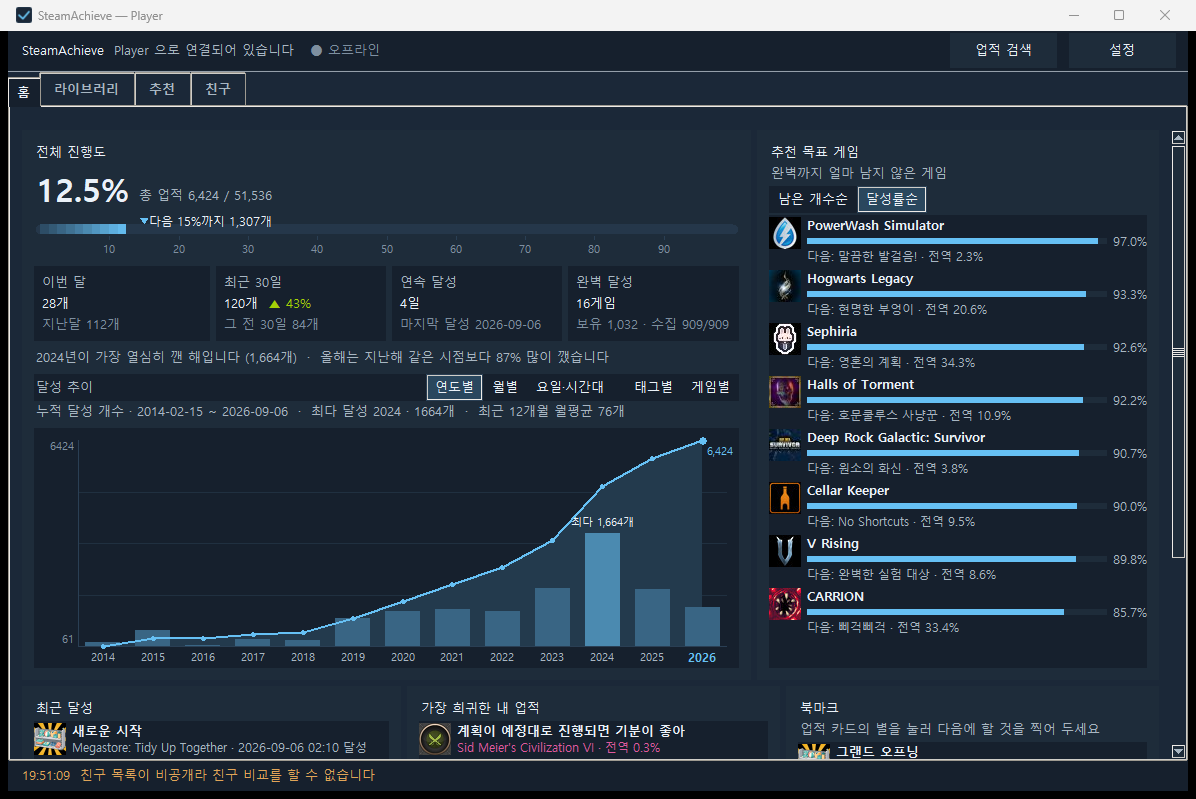
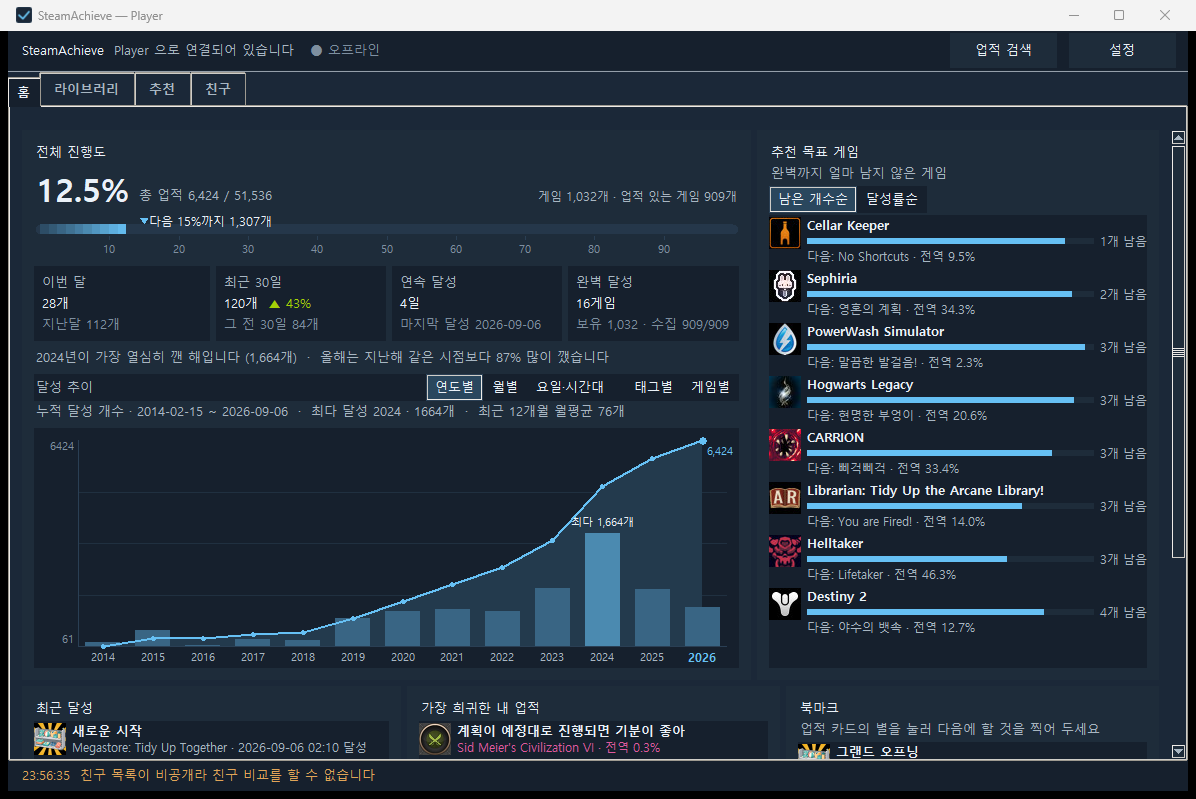
docs: v0.5.6 배포 문서

diff --git a/CHANGELOG.md b/CHANGELOG.md
@@ -2,6 +2,47 @@
 
 형식은 [Keep a Changelog](https://keepachangelog.com/ko/1.1.0/) 를 따르고, 버전은 [SemVer](https://semver.org/lang/ko/) 입니다.
 
+## [미공개]
+
+## [0.5.6] - 2026-09-07 — 조작·설정 정리
+
+### 추가
+- **첫 실행 설정 창에서 언어를 고를 수 있습니다.** 고르는 즉시 그 창의 글자가 바뀌어 무엇을 골랐는지 눈으로 확인됩니다. 설정을 마치고 [시작하기]를 누르면 앱이 그 언어로 다시 뜹니다(첫 실행이라 잃을 것이 없습니다).
+- 첫 실행 설정 창의 1단계가 **키가 왜 필요한지**를 밝힙니다 — 스팀은 로그인하지 않은 요청에 보유 게임 목록을 주지 않아 키 없이 시작할 방법이 없습니다. 키는 이 PC 에만 저장되고 스팀 비밀번호와는 무관하다는 것도 같은 자리에 적었습니다.
+- **친구에게 별명을 붙일 수 있습니다.** 스팀 닉네임이 아무 의미 없는 문자열이면 목록에서 누가 누군지 알아보기 어렵습니다 — 친구를 고르고 [별명]을 누르면 목록이 **"별명 (스팀 닉네임)"** 으로 바뀌고, 비교 제목과 이름 정렬도 그 이름을 씁니다. 닉네임을 함께 남기는 이유는 스팀에서 그 사람을 찾을 때 필요하기 때문입니다. 수동으로 친구를 추가할 때도 별명을 함께 넣을 수 있고(선택), 프로필 친구에게도 붙일 수 있습니다(붙여도 "수동 추가"가 되지 않습니다). 비우고 저장하면 지워집니다.
+- **스팀에서 보기 버튼.** 라이브러리에서 게임을 골라 업적을 보다가 그대로 그 게임을 보러 갈 수 있습니다 — 스팀 클라이언트가 앞으로 나오고, 보유 게임이면 **라이브러리 게임 페이지**가, 내가 안 가진 게임이면 **상점 페이지**가 열립니다. **게임을 실행하거나 설치하지 않습니다** — 업적을 훑다가 누른 클릭 한 번이 수십 GB 다운로드가 되면 안 되기 때문입니다.
+- **마우스 뒤로가기 버튼.** 마우스 4번 버튼(또는 Alt+←)으로 앞 화면으로 한 칸 되돌아갑니다 — 탭 사이, 라이브러리 홈 ↔ 게임 화면, 친구 선택까지 브라우저와 같은 방식입니다. 다른 프로그램이 앞에 있을 때는 반응하지 않습니다.
+- **친구가 가진 게임을 더블클릭하면 열립니다.** 내가 없는 게임이어도 라이브러리에서 고른 것과 똑같이 업적 목록이 뜹니다(내 달성 기록이 없으므로 전부 "미확인"입니다). 남의 게임이라 내 수집 통계에는 넣지 않습니다.
+- 친구 비교 요약 줄에서 **"미확인"과 "비공개"를 따로 셉니다.** 둘을 합쳐 두면 상대가 잠가 놓아 영영 못 보는 것을 "아직 안 받았다"로 읽어 새로 고침을 눌러 가며 기다리게 됩니다.
+- **표 머리글을 누르면 정렬됩니다.** 라이브러리 탭(게임 목록 · 목록 보기 · 업적 목록)과 친구 탭(친구 목록 · 비교표) 다섯 곳 모두입니다. 다른 열을 누르면 그 열의 자연스러운 방향으로(이름은 가나다순, 수치는 큰 것부터), 같은 열을 다시 누르면 뒤집힙니다. 정렬 중인 열에만 ▲/▼ 가 붙습니다.
+- 머리글로 정렬하면 **옆의 정렬 기준 컨트롤도 함께 바뀝니다** — 콤보가 "이름순"이라고 적어 두고 플레이타임순으로 그리는 일이 없습니다. 라이브러리 홈의 목록 보기 머리글은 왼쪽 게임 목록의 정렬을 바꿉니다(그 목록의 결과를 펴 보이는 화면이라 따로 정렬하면 어긋납니다).
+- 친구 비교 제목에 **종합 판정**이 붙습니다 — "내가 앞섭니다 (+12)" 처럼 결론을 한 줄로 말합니다. 개별 게임의 승패만으로는 "그래서 내가 이겼나"가 한눈에 안 들어왔습니다(사용자 지적). 지표가 달성률이면 이긴 게임 수로, 업적 개수면 업적 합계로 가립니다.
+- **총 게임 수와 업적 있는 게임 수**를 보여 줍니다. 홈 탭은 전체 진행도 오른쪽에, 라이브러리 탭은 게임 목록 아래에 나옵니다(필터를 걸어 두면 "게임 893개 / 전체 1,032개" 처럼 함께 보입니다).
+
+### 수정
+- **On/OFF 항목에 마우스를 올리면 글자가 사라지던 문제**(사용자 신고 2026-09-07). 체크박스·라디오·콤보의 호버 색을 지정하지 않아, 마우스를 올린 순간 밝은 회색이 글자 자리까지 덮고 그 위에 흰 글자가 얹혔습니다. 이제 호버는 한 단계 밝은 어두운 색으로 표시되고 글자는 그대로 읽힙니다.
+- **추천 프리셋(업적 많은 게임 / 무료 / 가성비)을 바꾸면 "보유 게임으로 추천 게임 구성"이 풀리던 문제**(사용자 신고 2026-09-07). 프리셋을 고를 때마다 정렬이 그 프리셋의 기본값으로 되돌아가, 그 프리셋에서 스위치를 껐다 켜야 다시 반영됐습니다. 이제 스위치가 켜져 있으면 어느 프리셋에서도 내 게임에서 뽑은 순서가 유지됩니다 — 프리셋이 거르는 조건(무료·업적 많은·가성비)은 그대로이고 순서만 취향을 따릅니다. 정렬 콤보에서 **직접 고른** 정렬은 그대로 존중합니다.
+- **"보유 게임으로 추천 게임 구성"을 껐다 켜도 목록이 그대로이던 문제.** 예전에는 정렬 **선택지**만 늘었다 줄어서, 다른 정렬을 보고 있으면 스위치가 아무 일도 하지 않는 것처럼 보였습니다. 이제 켜면 내 게임에서 뽑은 순서로 목록이 바뀌고, 끄면 원래 정렬로 돌아옵니다.
+- **업적 카드가 화면 아래로 밀리고 위에 빈 여백이 남던 문제**(사용자 신고 2026-09-07). "달성 업적 숨기기"로 카드가 몇 장만 남은 상태에서 휠을 **위로** 굴리면 화면이 내용 위쪽으로 빠져나가, 카드가 창 바닥에 붙고 그 위가 통째로 비었습니다. 스크롤바는 정상으로 보여서 무엇이 잘못됐는지 알 수도 없었습니다. 이제 휠은 내용 범위를 벗어나지 않습니다 — 커버 격자·추천 격자 등 휠로 굴리는 화면 전부에 같이 적용됩니다.
+- **글자 크기를 크게 두면 일부 글자가 잘리던 문제.** 표의 열 폭을 고정 픽셀 대신 실제 글꼴로 재고("친구 앞섬"이 "친구 앞섰"으로 잘렸습니다), 긴 안내 줄은 폭에 맞춰 접습니다. 친구 탭 머리줄이 붐빌 때 "지표"·"함께 보유한 게임만"이 통째로 사라지던 것도 고쳤습니다 — 조작 위젯이 자리를 먼저 갖습니다.
+- **친구의 업적을 못 읽을 때 "비공개"라고만 적던 문제.** 스팀 웹 API 는 "전체 공개"인 정보만 읽습니다 — 친구 사이여도 "친구만 공개"로 둔 업적은 볼 수 없습니다. 이제 그 사실과 함께 상대가 어느 설정을 바꾸면 되는지 알려 줍니다(프로필 › 개인정보 설정 › 게임 세부 정보).
+- **"함께 보유한 게임만"을 풀면 업적이 없는 게임까지 올라오던 문제.** 친구 보유 목록에 딸려 오는 업적 유무를 함께 저장해 걸러 냅니다.
+- **한쪽만 가진 게임의 승패 판정.** 가진 쪽이 실제로 업적을 깼을 때만 그 쪽의 승리입니다 — 둘 다 0 이면 무승부입니다(사용자 지적). 내가 없는 친구 게임은 친구 업적 수를 받아 오지 않으므로 패로 세지 않습니다.
+
+### 변경
+- **설정 창을 탭 넷으로 정리했습니다**(사용자 지적 2026-09-07). 절이 열둘이라 한 칸에 쌓으니 화면 두 배 길이였고 무엇이 어디 있는지 찾을 수 없었습니다. 이제 **계정 · 저장 / 표시 / 수집 · 추천 / 업데이트 · 정보** 로 나뉘고, 어느 탭을 눌러도 창 크기가 그대로입니다(실측: 1,300px 한 줄 → 가장 긴 탭 429px).
+- **친구 비교 켜기/끄기를 친구 탭으로 옮겼습니다.** 설정 창에서 켠 뒤 탭으로 옮겨 가 확인하는 왕복이 사라졌습니다. 스위치는 친구 목록에서 멀리 떨어진 **왼쪽 칸 맨 아래**에 둡니다 — 끄면 목록이 통째로 사라지는 스위치라 친구를 고르다 실수로 누르면 안 됩니다(사용자 지적).
+- **추천 탭에서도 "보유 게임으로 추천 게임 구성"을 켜고 끌 수 있습니다** — 결과가 바로 보이는 화면에 스위치를 두었습니다. 설정 창과 값은 항상 같이 움직입니다.
+- 추천 항목 두 개의 이름을 바꿨습니다 — "내 보유 게임으로 추천을 개인화한다" → **"보유 게임으로 추천 게임 구성"**, "추천 후보를 백그라운드에서 모은다" → **"백그라운드에서 추천 후보 수집"**.
+- 설정 창의 **내 취향 태그 줄을 뺐습니다** — 누를 것도 하라는 것도 없는 한 줄이 창을 길게만 만들었습니다.
+- **친구를 고르면 이제 전부 확인하고 비교합니다.** 예전에는 공통 게임 50개만 받고 "더 불러오기"를 기다려서, 표에 "미확인"이 남은 채로 승패가 갈렸습니다(사용자 지적). 이제 남은 묶음을 스스로 이어 받고, **내 진행이 비어 있는 게임도 함께 채웁니다**. 실측: 첫 묶음에서 미확인 15행 → 전량 확인 후 0행. 상대가 "게임 세부 정보"를 비공개로 둔 게임만 남습니다 — 그건 안 받은 것이 아니라 못 받는 것입니다.
+- **판세 막대에서 회색(무승부) 구간을 뺐습니다**(사용자 요청). 무승부가 절반을 차지하면 승패 비율이 눈에 안 들어옵니다. 무승부 수는 아래 점수 글자가 그대로 밝힙니다.
+- 친구 비교를 **다시 한 표로** 합쳤습니다. 승/패를 좌우 두 표로 갈랐더니 게임 목록이 둘이 되어 읽기 힘들고 자리만 차지했습니다(사용자 지적). 승패는 제목 줄의 점수와 비율 막대, 표의 상태 열이 말하고, 정렬이 상태별로 묶어 줍니다. 아래로 접어 두던 "그 밖의 게임"도 같은 표에 담습니다.
+- 차이 칸의 단위를 `%p` 에서 `%` 로 되돌렸습니다.
+- **"함께 보유한 게임만"을 끄면 각자만 가진 게임도 승패에 듭니다.** 친구만 가진 게임은 패, 내가만 가진 게임은 승입니다 — 안 가진 쪽의 업적이 0 인 것은 조회 없이도 확실하기 때문입니다. 실측: 함께 보유만 볼 때 승 20 · 패 25, 끄면 승 798 · 패 98.
+- **업적 개수 지표에 경쟁 막대가 붙습니다.** 달성률 지표에서는 승·무·패 게임 수 비율이던 막대가, 업적 개수 지표에서는 **내 업적 합계 대 친구 업적 합계** 비율이 됩니다. 합계는 양쪽 다 아는 게임만 세고, 못 센 게임 수를 함께 밝힙니다 — 친구 업적을 안 받아 온 게임을 0 으로 치면 내 합계만 커 보이기 때문입니다.
+- 달성률 지표가 총계까지 다시 보여 줍니다(`1 / 8 (12%)`) — 표가 전체 폭을 쓰므로 자리가 있습니다.
+
 ## [0.5.5] - 2026-09-06 — 친구 탭
 
 ### 추가
